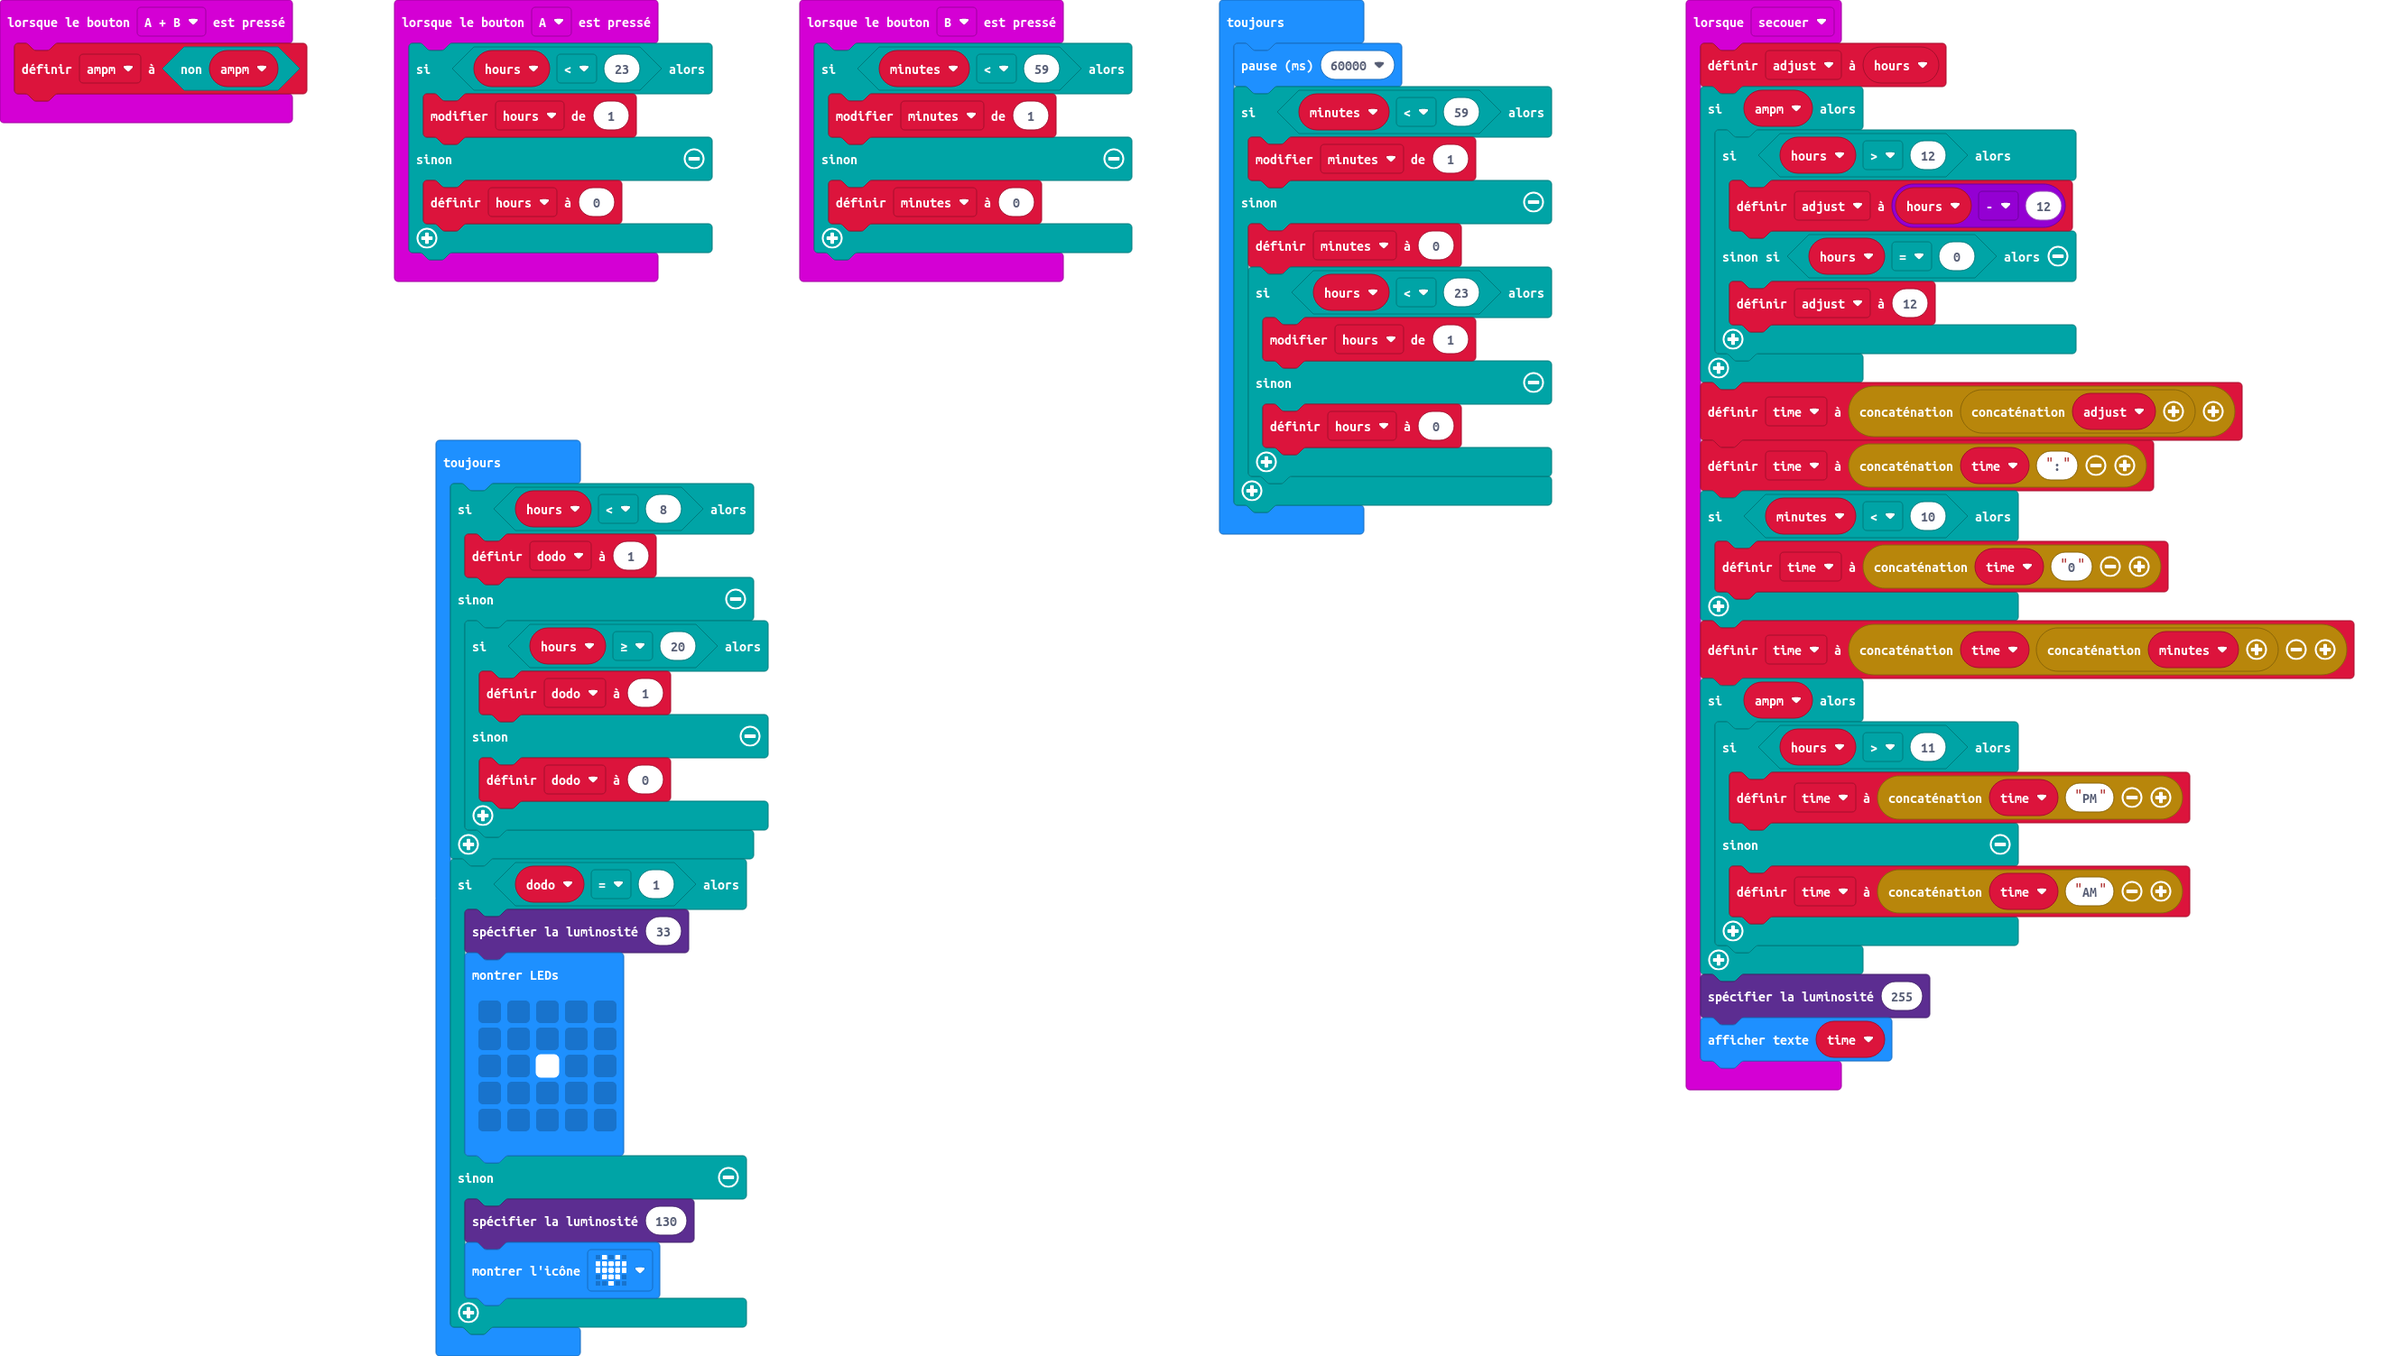
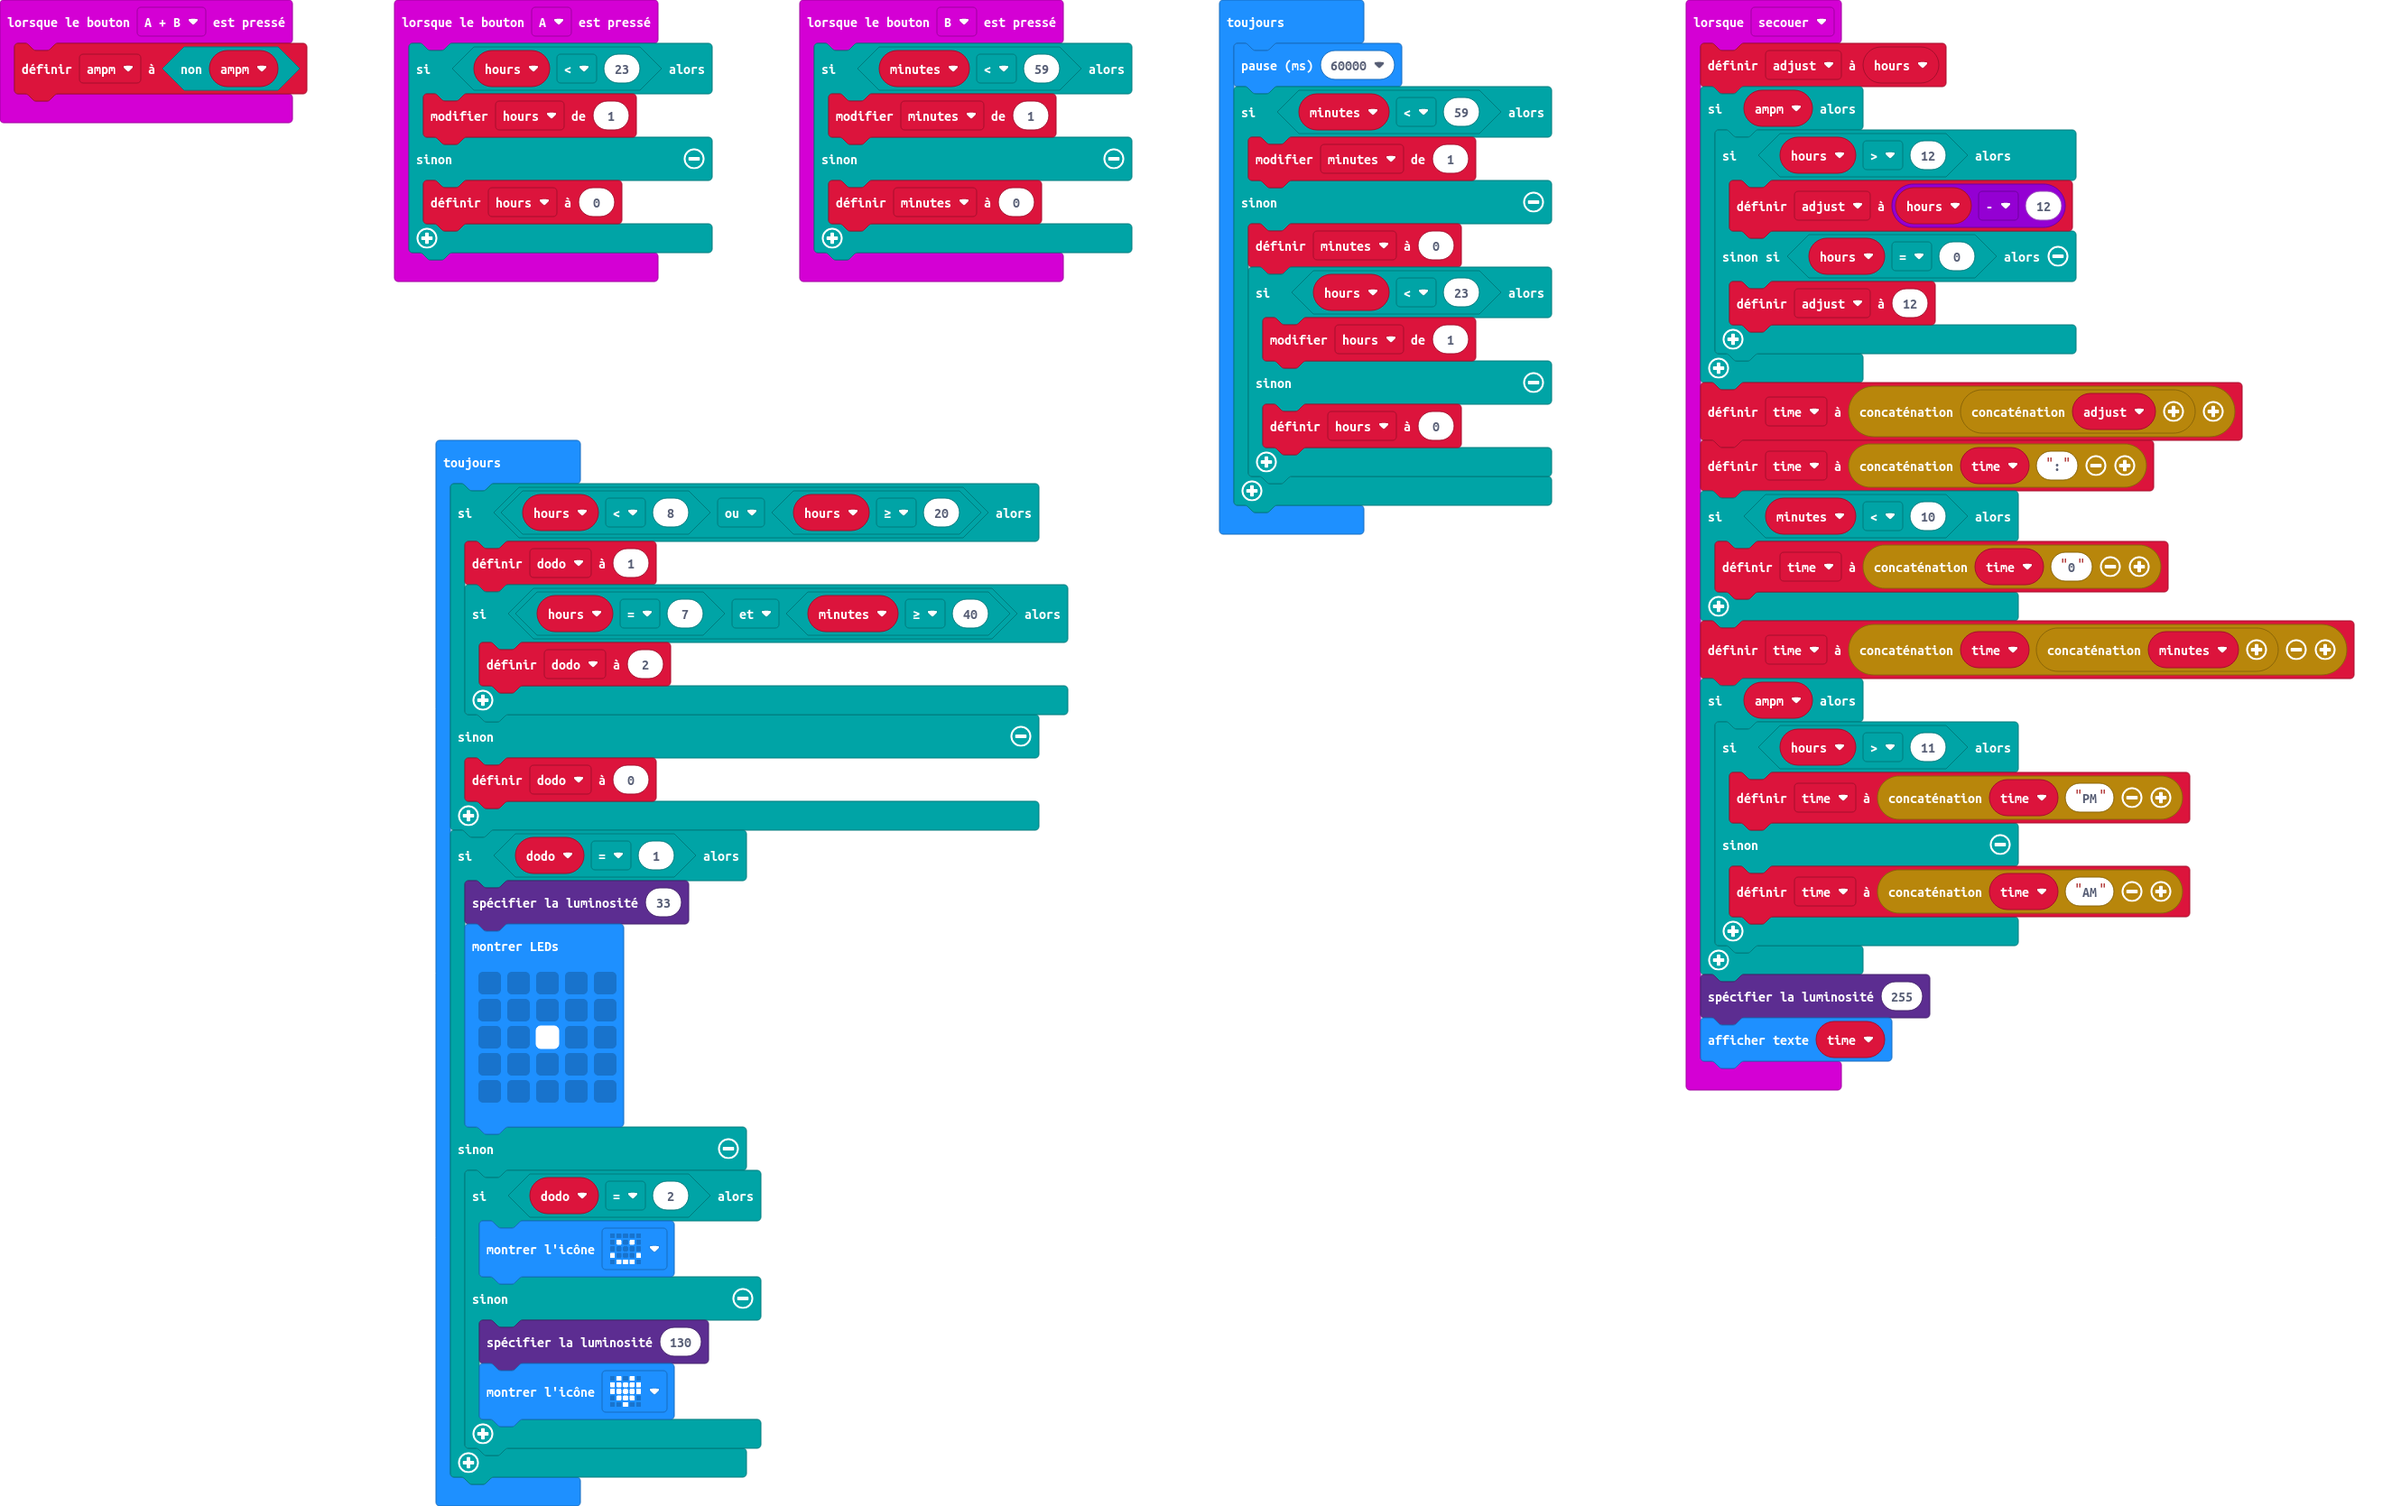
changement d'état à 7h40 pour préparer le reveil

diff --git a/main.ts b/main.ts
@@ -60,14 +60,13 @@ basic.forever(function () {
     }
 })
 basic.forever(function () {
-    if (hours < 8) {
+    if (hours < 8 || hours >= 20) {
         dodo = 1
-    } else {
-        if (hours >= 20) {
-            dodo = 1
-        } else {
-            dodo = 0
+        if (hours == 7 && minutes >= 40) {
+            dodo = 2
         }
+    } else {
+        dodo = 0
     }
     if (dodo == 1) {
         led.setBrightness(33)
@@ -79,7 +78,11 @@ basic.forever(function () {
             . . . . .
             `)
     } else {
-        led.setBrightness(130)
-        basic.showIcon(IconNames.Heart)
+        if (dodo == 2) {
+            basic.showIcon(IconNames.Happy)
+        } else {
+            led.setBrightness(130)
+            basic.showIcon(IconNames.Heart)
+        }
     }
 })
